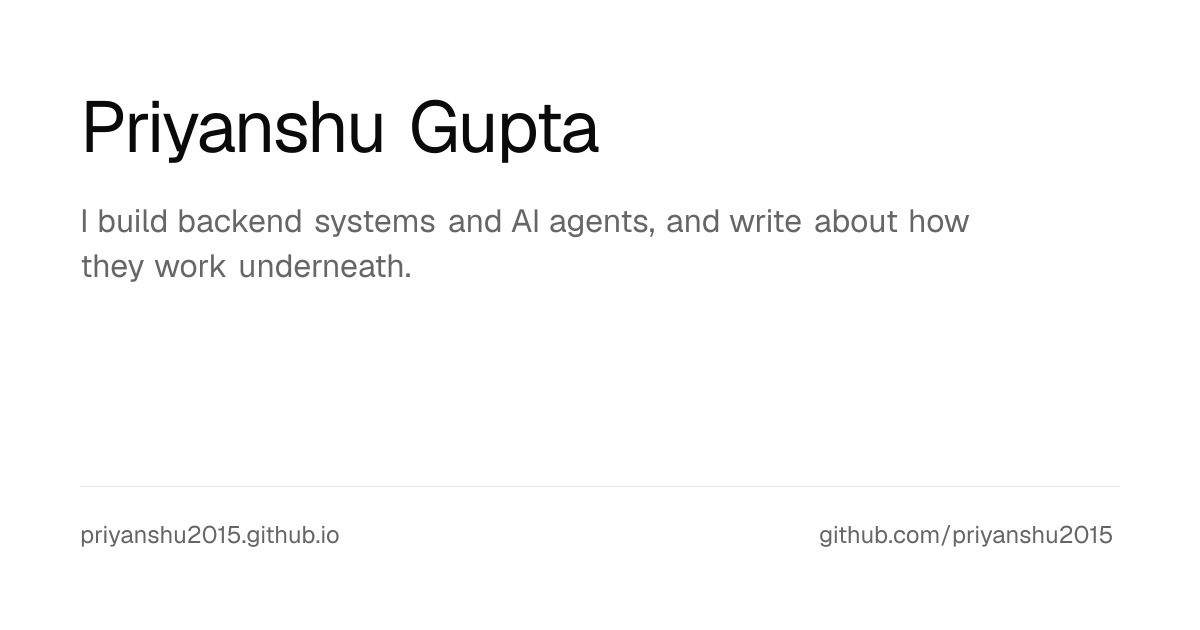
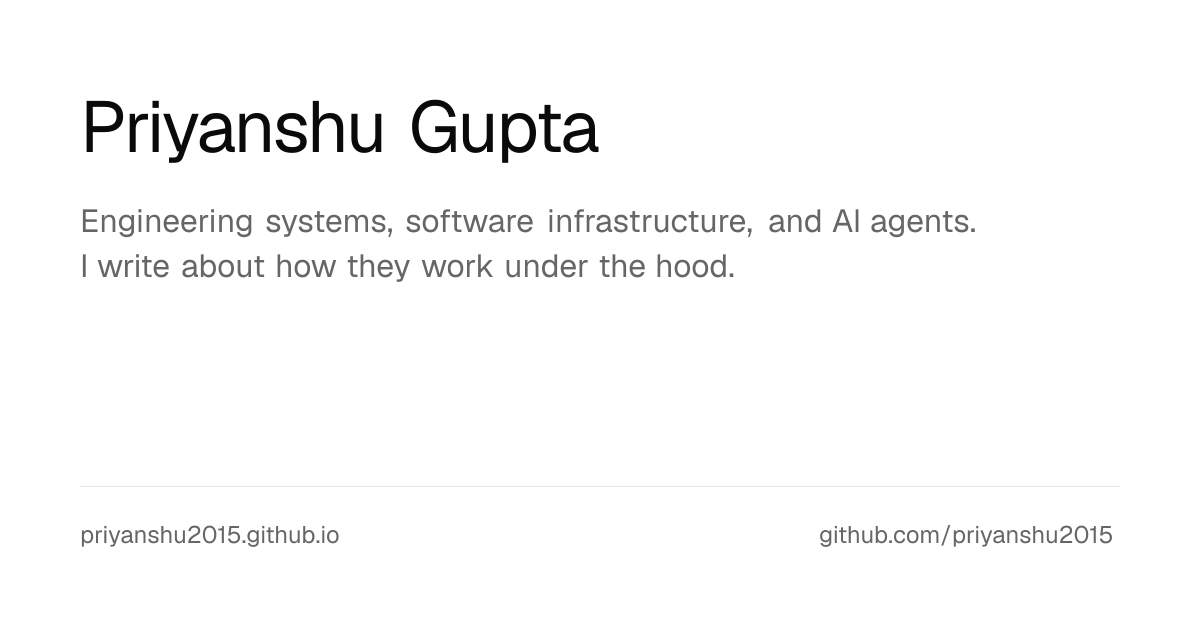
fixed header description and did some placements

Changed region(s): [[0.0617, 0.3317, 0.8017, 0.4524]]

diff --git a/src/data/resume.ts b/src/data/resume.ts
@@ -77,7 +77,7 @@ export const DATA = {
    * subtitle. Keep it to one line.
    */
   description:
-    "I build backend systems and AI agents, and write about how they work underneath.",
+    "Engineering systems, software infrastructure, and AI agents. I write about how they work under the hood.",
 
   /** The About paragraph. Markdown is not parsed here, so keep it plain prose. */
   summary:
@@ -199,19 +199,31 @@ export const DATA = {
     },
     {
       title: "LoRA and Efficient LLM Serving for Financial Expert Agents",
+      href: "https://drive.google.com/drive/folders/1IssVKiYtG9WxIElw2vZtsRNu8tJuk4XJ?usp=sharing",
       dates: "2025",
       description:
         "How do you serve a hundred specialised financial models without buying a hundred GPUs? A research survey of parameter-efficient fine-tuning and multi-tenant serving: LoRA training 10,000x fewer parameters, and where vLLM, S-LoRA, and dLoRA actually earn their claimed 4x throughput rather than just quoting it. Evaluated FinLoRA, FinGPT, and layered RAG agent architectures for financial reasoning.",
       technologies: ["LoRA", "vLLM", "S-LoRA", "RAG"],
-      links: [],
+      links: [
+        {
+          type: "Paper",
+          href: "https://drive.google.com/drive/folders/1IssVKiYtG9WxIElw2vZtsRNu8tJuk4XJ?usp=sharing",
+        },
+      ],
     },
     {
       title: "AI Trust & Citizen Participation in Digital Public Services",
+      href: "https://drive.google.com/file/d/1l2wc_TAqg31Mtq1RVTzVY2Mg2Zx4YseU/view?usp=sharing",
       dates: "2025",
       description:
         "Does an AI that sounds human earn more trust than one that works? We ran a 2x2 experiment on 143 people to find out. Both helped, but sounding authentic stopped counting for much once the thing performed badly. The odd result: trust predicted whether people would participate, and predicted nothing at all about whether they would hand over their data. People weigh how sensitive the information is over how much they like you.",
       technologies: ["Qualtrics", "Prolific", "Statistics"],
-      links: [],
+      links: [
+        {
+          type: "Paper",
+          href: "https://drive.google.com/file/d/1l2wc_TAqg31Mtq1RVTzVY2Mg2Zx4YseU/view?usp=sharing",
+        },
+      ],
     },
     {
       title: "LetsProgressify",
@@ -224,11 +236,17 @@ export const DATA = {
     },
     {
       title: "Privacy-Preserving Computation Techniques",
+      href: "https://github.com/priyanshu2015/PPC-Techniques-Implementation",
       dates: "2024",
       description:
         "Can several parties compute on data none of them are allowed to see? Implemented partially homomorphic encryption, secure multi-party computation, and zero-knowledge proofs across a multi-server Flask setup, then measured what each one actually costs. The cryptography is elegant; the bill is real.",
       technologies: ["Python", "Flask", "Cryptography", "ZKP"],
-      links: [],
+      links: [
+        {
+          type: "Source",
+          href: "https://github.com/priyanshu2015/PPC-Techniques-Implementation",
+        },
+      ],
     },
   ] satisfies Project[],
 

diff --git a/src/app/page.tsx b/src/app/page.tsx
@@ -1,6 +1,6 @@
 import Link from "next/link";
 import { DATA } from "@/data/resume";
-import { getRecentPosts } from "@/lib/posts";
+import { getFeaturedPosts } from "@/lib/posts";
 import { Section } from "@/components/section";
 import { Stats } from "@/components/stats";
 import { Timeline } from "@/components/timeline";
@@ -12,7 +12,7 @@ import { SocialLinks } from "@/components/social-links";
 import { personJsonLd, serializeJsonLd } from "@/lib/json-ld";
 
 export default function Home() {
-  const posts = getRecentPosts(4);
+  const posts = getFeaturedPosts(4);
 
   return (
     <>
@@ -59,6 +59,10 @@ export default function Home() {
         <Timeline />
       </Section>
 
+      <Section id="projects" title="Projects">
+        <ProjectList />
+      </Section>
+
       <Section id="writing" title="Writing">
         <PostList posts={posts} />
         {posts.length > 0 ? (
@@ -69,10 +73,6 @@ export default function Home() {
             All writing →
           </Link>
         ) : null}
-      </Section>
-
-      <Section id="projects" title="Projects">
-        <ProjectList />
       </Section>
 
       <Section id="education" title="Education">

diff --git a/src/lib/posts.ts b/src/lib/posts.ts
@@ -86,9 +86,28 @@ export function getPostBySlug(slug: string): Post | undefined {
   return getAllPosts().find((p) => p.slug === slug);
 }
 
-/** The homepage shows a handful; /blog shows everything. */
-export function getRecentPosts(count = 4): Post[] {
-  return getAllPosts().slice(0, count);
+/**
+ * The homepage shows a handful; /blog shows everything.
+ *
+ * The posts the homepage leads with, in this order — hand-picked rather than
+ * newest-first, because "what I want to be read" and "what I published last" are
+ * not the same list. Unknown or drafted slugs are skipped; if none resolve, the
+ * homepage falls back to the most recent posts.
+ */
+const FEATURED_SLUGS = [
+  "celery",
+  "scaling-websocket-server",
+  "django-design-patterns",
+  "rabbitmq",
+];
+
+export function getFeaturedPosts(count = 4): Post[] {
+  const all = getAllPosts();
+  const featured = FEATURED_SLUGS.map((slug) =>
+    all.find((p) => p.slug === slug)
+  ).filter((p): p is Post => p !== undefined);
+
+  return featured.length > 0 ? featured.slice(0, count) : all.slice(0, count);
 }
 
 /** "4 Jun 2024" — short, unambiguous across locales, no ordinal suffixes. */
